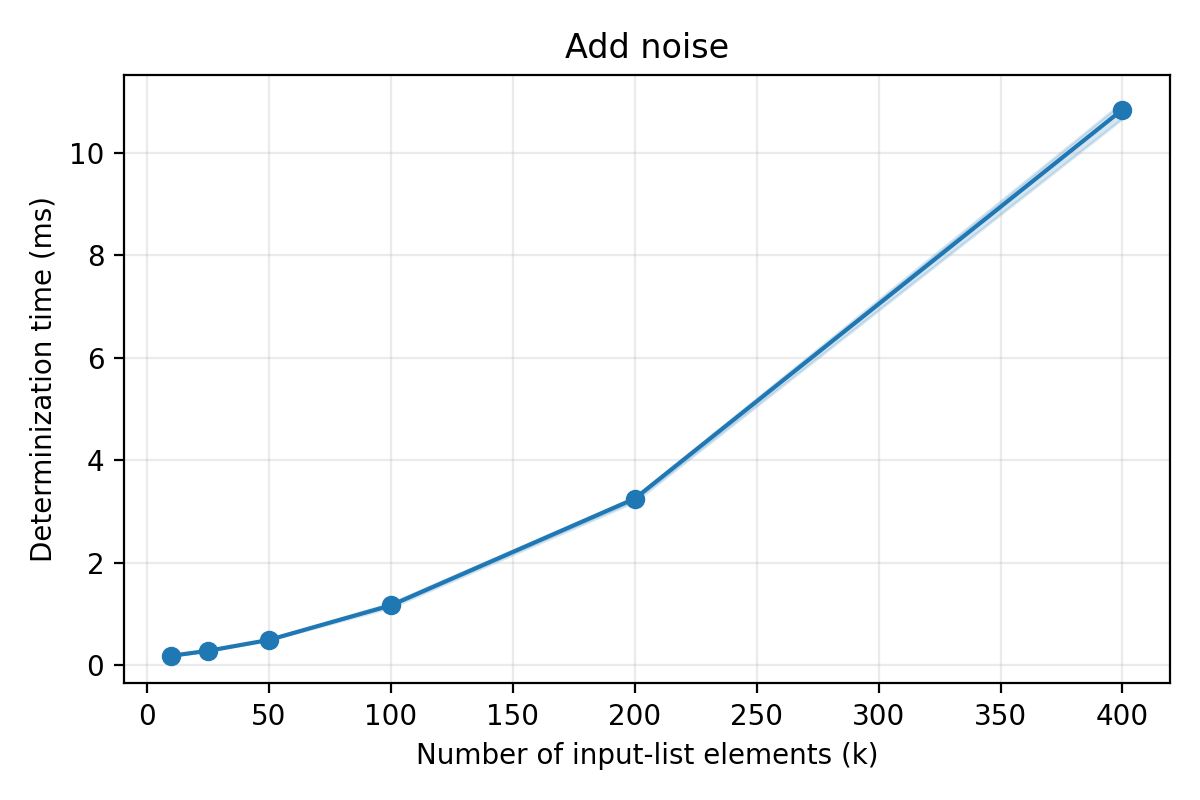
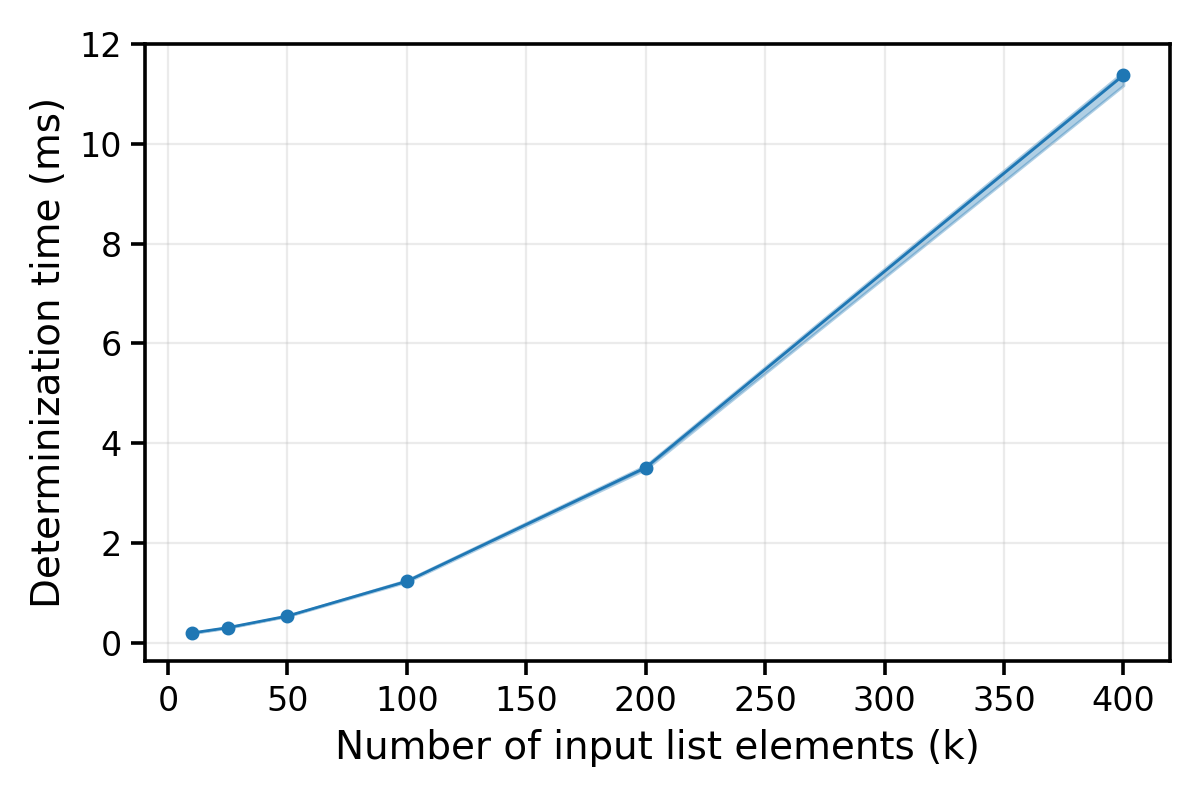
Better RQ1 for evaluation section

Changed region(s): [[0.0308, 0.0312, 0.9867, 0.9688]]

diff --git a/tex/sections/7_evaluation.tex b/tex/sections/7_evaluation.tex
@@ -5,18 +5,18 @@
 In this section, we evaluate our determinization approach in three complementary ways. We seek to address the following research questions:
 
 \begin{itemize}
-    \item \textbf{RQ1: Exact analysis.} What classes of probabilistic programs can our determinization transformation handle?
+    \item \textbf{RQ1: Exact analysis.} Can determinization transform infinite-state programs into finite-state ones amenable to exact expectation computation, and at what computational cost?
     
-    \item \textbf{RQ2: Variance reduction.} How much does determinization reduce the variance of program outputs?
+    \item \textbf{RQ2: Variance reduction.} When programs remain infinite-state after determinization, how much does the transformation reduce their output variance?
     
-    \item \textbf{RQ3: Monte Carlo efficiency.} How does this variance reduction translate into more precise Monte Carlo estimates under a fixed wall-clock budget?
+    \item \textbf{RQ3: Monte Carlo efficiency.} To what extent does this variance reduction improve the precision of Monte Carlo expectation estimates under a fixed wall-clock budget?
 \end{itemize}
 
-Consequently, our first question concerns \emph{exact inference}, calculating the true expected value of a program over the exact posterior distribution of the program, while the latter two concern \emph{sampling-based inference}, first measuring how much randomness determinization removes and then asking whether that reduction translates into more efficient Monte Carlo estimation in practice. We detail the benchmarks, experimental setup, comparisons, and results for each question in the following subsections below. All experiments have been run on a MacBook Pro M3 with 16GB RAM. Together with our benchmarks, our implementation is publicaly available at \href{https://github.com/[anonymized]}{https://github.com/[anonymized]}.
+Consequently, our first question investigates whether determinization enables exact expectation computation through finite-state model checking. The latter two investigate its benefits for sampling-based inference, first measuring reductions in output variance and then evaluating whether these reductions improve Monte Carlo precision under a fixed wall-clock budget. We detail the benchmarks, experimental setup, comparisons, and results for each question in the following subsections below. All experiments have been run on a MacBook Pro M3 with 16GB RAM. Together with our benchmarks, our implementation is publicly available at \href{https://github.com/[anonymized]}{https://github.com/[anonymized]}.
 
 \subsection{RQ1: Enabling Exact Expectations}
 
-We first ask whether determinization can make exact expectation analysis possible for programs with continuous or infinite-state behavior. For the original 14 benchmarks in Table~\ref{tab:finite-after-determinization}, determinization yields a finite-state representation, even when some discrete sampling remains. For these benchmarks, we translate the transformed program into a finite discrete-time Markov chain and use Storm~\cite{hensel2022storm} to compute its expectation exactly as an expected-reward query.
+We first ask whether determinization can make calculating exact expectations possible for programs with continuous or infinite-state behavior. For the benchmarks in Table~\ref{tab:finite-after-determinization}, determinization yields a finite-state representation, even when some discrete sampling remains. For these benchmarks, we translate the determinized program into a finite discrete-time Markov chain and use Storm~\cite{hensel2022storm} to compute its expectation exactly as an expected-reward query. Each result is accompanied by a Lean-checkable certificate establishing that the finite model represents the determinized program and that the reported expectation satisfies the exact rational reward equations and boundary conditions.
 
 Our benchmark suite draws primarily from prior work~\cite{chakarov2013martingales,chakarov2014expectation,beutner2022guaranteed,barthe2016private,vakar2019domain,sato2019formal,gehr2016psi}, alongside four new examples: \texttt{retransmit}, \texttt{service-policy}, \texttt{workload}, and \texttt{noisy-iteration}. 
 These benchmarks exercise a range of language constructs, including: lists for \texttt{add-noise},
@@ -26,13 +26,13 @@ and \texttt{swap}; and unbounded recursion for \texttt{add-uniform-counter}, \te
 
 \input{figures/eval-exact.tex}
 
-\paragraph{Results} Our results are summarized in~\Cref{tab:finite-after-determinization}. Determinization eliminates all continuous sampling sites across the original 14 benchmarks, with seven programs fully determinized and seven partially determinized. Importantly, even when discrete sampling remains, the determinized programs still admit exact expectation computation via Storm. This includes programs involving lists, higher-order functions, and unbounded recursion. Thus, our evaluation here serves to show that eliminating continuous randomness can turn a program that is unsuitable for finite-state model checking into one whose expectation can be computed exactly, using a verified finite-state construction and certificates.
+\paragraph{Results} \Cref{tab:finite-after-determinization} summarizes our results. For each benchmark, we report the queried expectation, whether determinization is full or partial, the number of static discrete and continuous sampling sites before and after determinization, and the determinization time. All 15 benchmarks have their continuous sampling sites eliminated, with seven fully determinized and eight partially determinized. Even when discrete sampling remains, the resulting programs admit exact expectation computation using Storm. These results demonstrate that determinization can enable finite-state exact analysis of programs involving continuous distributions, higher-order functions, and unbounded recursion.
 
 \paragraph{Determinization cost.}
 The final column of \cref{tab:finite-after-determinization}
-reports the time spent parsing, elaborating, inferring types
-and sampling modes, and replacing eligible samples by their
-means. This computation takes less than one millisecond on every benchmark. Now, to investigate how this cost grows with program size, we generate three benchmarks with increasing numbers of stages $k$ (see \cref{sec:appendix-scaling} for full details). Increasing $k$ adds explicit program structure. \Cref{fig:determinization-scaling} shows median times over seven runs, with interquartile bands.
+reports the total determinization time. This takes less than one millisecond on every benchmark instance. Now, to investigate how this cost grows with program size, we
+take three benchmarks from the table and parameterize them by $k$. For \texttt{uniform-nested}, $k$ counts a chain of dependent uniform sampling sites, each parameterized by the preceding sample. For \texttt{gauss-random-walk} and \texttt{add-noise}, $k$ instead counts the number of explicitly constructed input list elements (see \cref{sec:appendix-scaling} for full details). Increasing $k$ thus enlarges the source program. \Cref{fig:determinization-scaling} shows median times over 10 runs, with interquartile bands.
+
 
 \input{figures/eval-scaling.tex}
 

diff --git a/benchmarks/exact/scaling/run_scaling.py b/benchmarks/exact/scaling/run_scaling.py
@@ -20,7 +20,7 @@ import statistics
 import subprocess
 import tempfile
 
-# Experiment settings: k counts dependent draws or explicit input-list elements.
+# Experiment settings: k counts nested uniform draws or explicit input-list elements.
 SIZES = [10, 25, 50, 100, 200, 400]
 REPETITIONS = 7
 WARMUPS = 1
@@ -31,7 +31,7 @@ ROOT = HERE.parents[2]
 BINARY = ROOT / "lean/.lake/build/bin/determinize"
 OUTPUT = ROOT / "results/scaling"
 FAMILIES = {
-    "dependent-chain": "Dependent sampling chain",
+    "uniform-nested": "Uniform nested",
     "gauss-random-walk": "Gaussian random walk",
     "add-noise": "Add noise",
 }
@@ -39,7 +39,7 @@ FAMILIES = {
 
 def generate(family: str, k: int) -> str:
     lines = []
-    if family == "dependent-chain":
+    if family == "uniform-nested":
         lines.append("let x0 = 1 in")
         for i in range(1, k + 1):
             lines.append(f"let x{i} = uniform(0, x{i - 1}) in")
@@ -73,7 +73,7 @@ def measure(path: Path, family: str, k: int, binary: Path) -> int:
         r"Sampling sites (before|after) determinization: discrete=(\d+), continuous=(\d+)",
         run.stdout,
     )
-    expected = {"before": (0, k if family == "dependent-chain" else 1),
+    expected = {"before": (0, k if family == "uniform-nested" else 1),
                 "after": (0, 0)}
     observed = {when: (int(d), int(c)) for when, d, c in counts}
     if observed != expected:
@@ -113,11 +113,15 @@ def plot(rows: list[dict]) -> None:
         low = [row["q25_ms"] for row in series]
         high = [row["q75_ms"] for row in series]
         fig, ax = plt.subplots(figsize=(6, 4))
-        line, = ax.plot(x, y, "o-", label=label)
-        ax.fill_between(x, low, high, alpha=0.18, color=line.get_color())
-        ax.set(title=label, xlabel=("Number of dependent draws (k)" if family == "dependent-chain"
-                       else "Number of input-list elements (k)"),
-               ylabel="Determinization time (ms)")
+        line, = ax.plot(x, y, "o-", label=label, linewidth=1, markersize=4)
+        ax.fill_between(x, low, high, alpha=0.35, color=line.get_color())
+        ax.set_xlabel("Number of nested uniform draws (k)" if family == "uniform-nested"
+                      else "Number of input list elements (k)",
+                      fontsize=14)
+        ax.set_ylabel("Determinization time (ms)", fontsize=14)
+        ax.tick_params(axis="both", labelsize=12, width=1.3, length=5)
+        for spine in ax.spines.values():
+            spine.set_linewidth(1.3)
         ax.grid(alpha=0.25)
         fig.tight_layout()
         for extension in ("png", "pdf"):
@@ -172,7 +176,7 @@ def main() -> int:
                 "sizes": sorted(set(args.sizes)), "repetitions": args.repetitions,
                 "warmups": WARMUPS, "timeout_seconds": TIMEOUT_SECONDS,
                 "timed_phases": ["parse", "elaborate", "infer", "determinize"],
-                "size_metric": "k: dependent draws or explicit input-list elements",
+                "size_metric": "k: nested uniform draws or explicit input-list elements",
                 "binary": str(binary), "failures": failures,
             }, indent=2) + "\n")
     if summaries:

diff --git a/tex/figures/eval-scaling.tex b/tex/figures/eval-scaling.tex
@@ -3,9 +3,9 @@
     \centering
     \begin{subfigure}[t]{0.32\linewidth}
         \centering
-        \includegraphics[width=\linewidth]{../results/scaling/dependent-chain.png}
+        \includegraphics[width=\linewidth]{../results/scaling/uniform-nested.png}
         \caption{\texttt{uniform-nested}}
-        \label{fig:scaling-dependent-chain}
+        \label{fig:scaling-uniform-nested}
     \end{subfigure}\hfill
     \begin{subfigure}[t]{0.32\linewidth}
         \centering
@@ -19,11 +19,10 @@
         \caption{\texttt{add-noise}}
         \label{fig:scaling-add-noise}
     \end{subfigure}
-    \caption{Determinization time versus the size parameter $k$. Points show median times over seven runs;
-    shaded bands show the interquartile range. Timings include parsing,
-    elaboration, type inference, and mean replacement only.}
+    \caption{Determinization time versus the size parameter $k$. Points show median times over 10 runs;
+    shaded bands show the interquartile range. Timings include determinization only.}
     \label{fig:determinization-scaling}
     \Description{Three plots show determinization time in milliseconds as the
-    number of dependent draws increases in a sampling chain and the input-list
+    number of nested uniform draws increases in uniform-nested and the input-list
     length increases in the Gaussian random walk and add-noise benchmarks. Each plot includes an interquartile band.}
 \end{figure}

diff --git a/tex/figures/eval-exact.tex b/tex/figures/eval-exact.tex
@@ -101,9 +101,6 @@
         \bottomrule
     \end{tabular}
 
-    \caption{Determinization on 15 benchmarks.
-    In the determinization column, $\bullet\!\bullet$ denotes full
-    determinization and $\bullet\!\circ$ denotes partial determinization. Each pair $(d,c)$ counts static
-    discrete and continuous sampling sites. Several programs are parameterized by $n$: their expectations vary with each iteration of the loop.}
+    \caption{ Determinization on 15 benchmarks. In the determinization column, $\bullet\!\bullet$ denotes full determinization and $\bullet\!\circ$ denotes partial. Each pair $(d,c)$ counts static discrete and continuous sampling sites. Timings measure determinization only, excluding finite-state model construction and Storm model checking. Several programs are parameterized by $n$, which affects their expectations and generated model sizes.}
     \label{tab:finite-after-determinization}
 \end{table}
